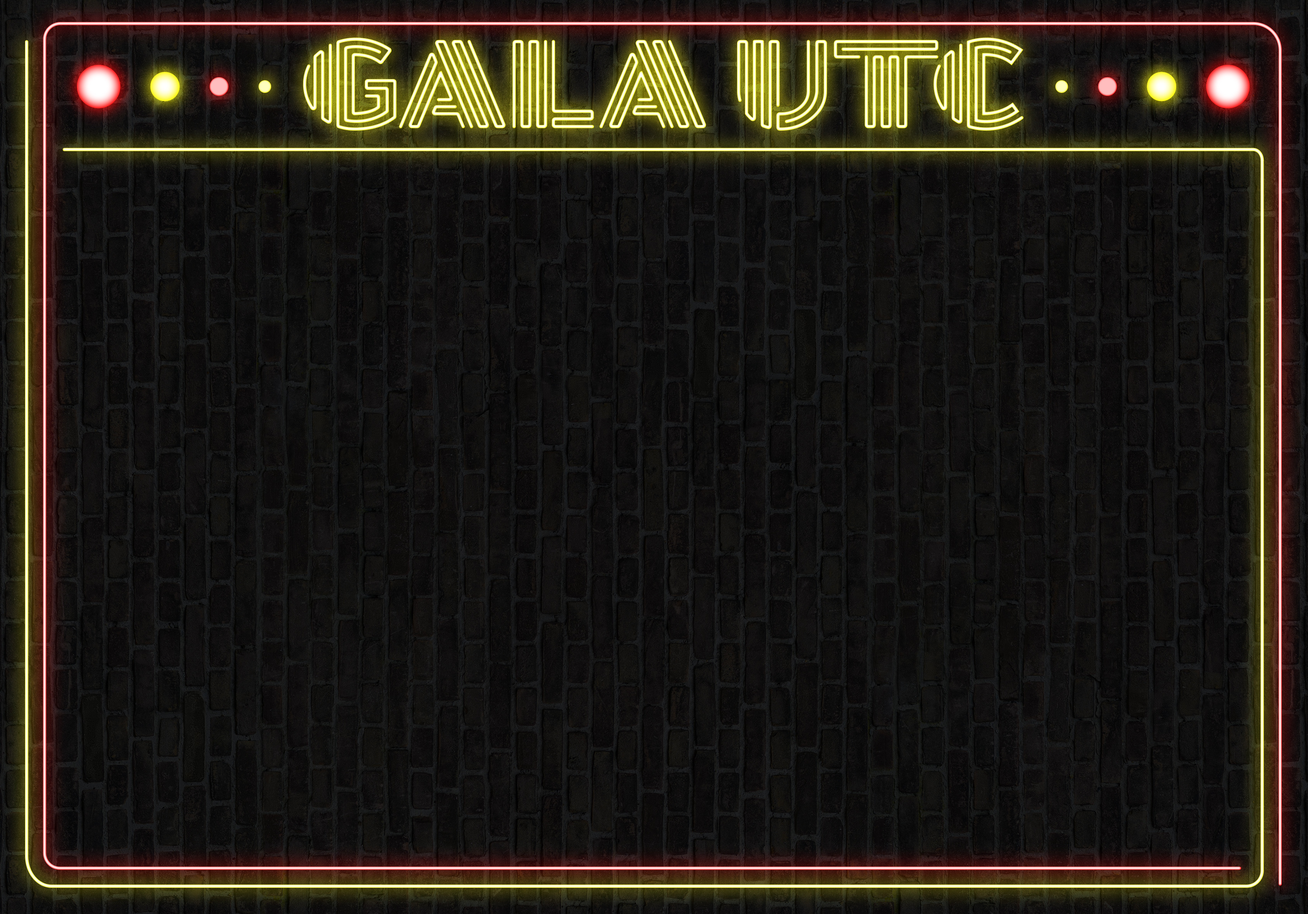
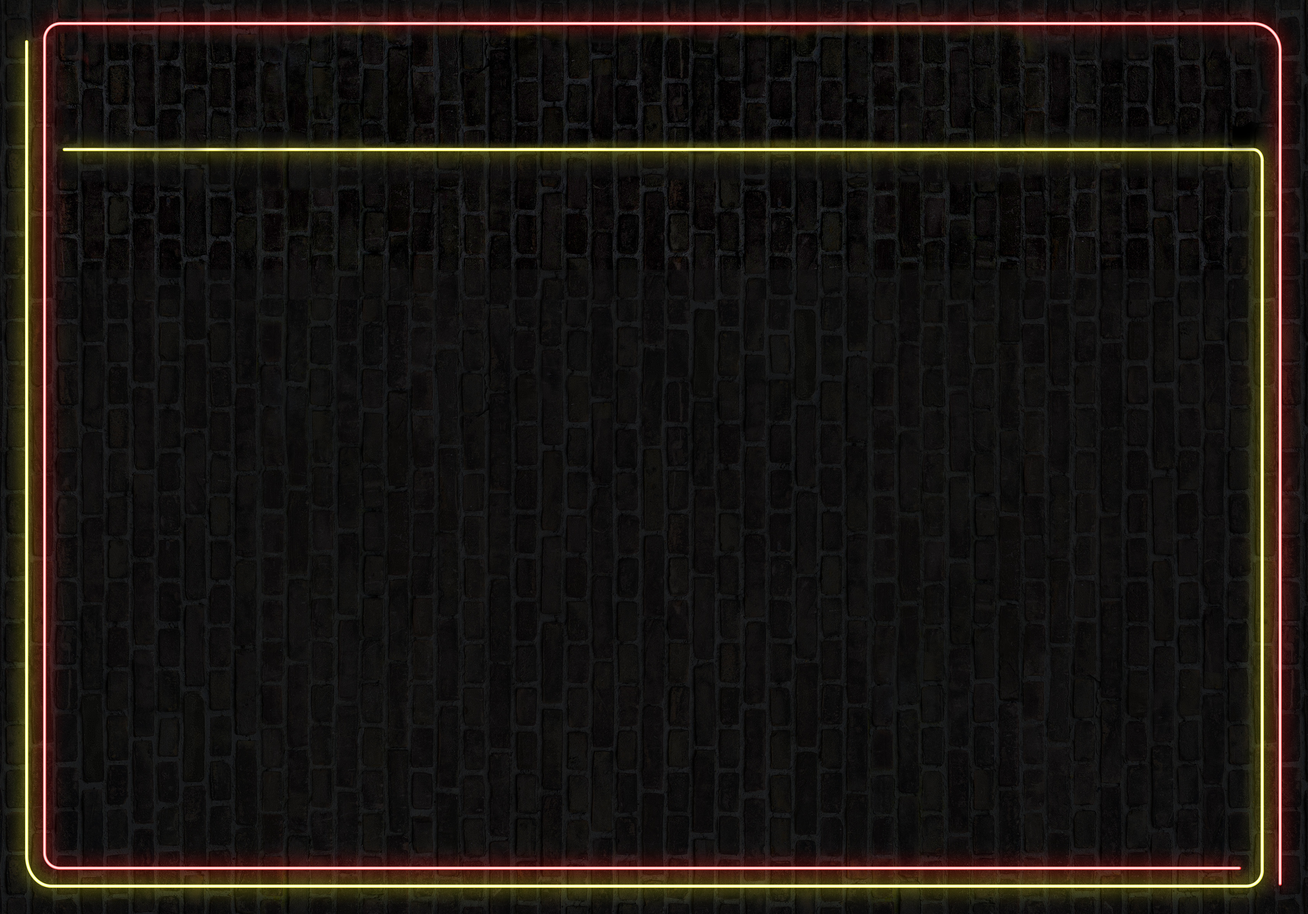
Corrections de bugs, affichage un peu plus responsive

Changed region(s): [[0.031, 0.0312, 0.9599, 0.1873], [0.031, 0.0, 0.0619, 0.0312]]

diff --git a/index.html b/index.html
@@ -9,6 +9,10 @@
 body {
   color:white;
   background-color: black;
+  background-image: url("fondGalaHorizontal.jpeg");
+  background-size: 90vw 100vh;
+  background-position: top;
+  background-repeat: no-repeat;
 }
 
 ul {
@@ -17,37 +21,88 @@ ul {
 }
 
 .content {
-  background-image: url("fondGalaHorizontal.jpeg");
-  background-size: 90vw 100vh;
-  background-position: top;
-  background-repeat: no-repeat;
-  height: 100vh;
-  padding: 10%;
   font-family: Helvetica;
+  font-size: 1em;
+  padding-left: 8%;
+  padding-right: 8%;
+  margin-top: calc(15%);
 }
 
-table {
-  text-align: center;
-  font-size: 1.3em;
+.main_table {
+  width: 100%;
+  border-collapse: collapse;
+  margin-top: 5px
 }
 
-th {
+.sub_table {
+  width: 100%;
+}
+
+.titres_scenes {
   font-weight: bolder;
-  padding: 20px;
+  text-align: center;
+  margin-top: 1em;
+  margin-bottom: 1em;
+  font-size: 1.2em;
 }
 
-.dans_x_minutes, .etat_en_cours {
+td {
+  margin-top: 0;
+  margin-bottom: 0;
+  text-align: left;
+}
+
+#logo{
+  height: 100%;
+  display: block;
+  display: block;
+  margin-left: auto;
+  margin-right: auto;
+}
+
+#logo_container {
+  position: absolute;
+  top: calc(3%);
+  left: 0px;
+  width: 100%;
+  height: 13%;
+}
+
+
+
+.titres_prochainement, .titres_en_cours {
+  text-align: center;
+  font-size: 1.2em;
+    padding-top: 50px;
+}
+
+.titres_prochainement, .titres_en_cours, .temps_restant {
   font-style: italic;
+}
+
+
+.temps_restant {
+  font-size: 0.8em;
+}
+
+.anim_temps_restant {
+  font-size: 0.8em;
 
 }
 
-.ligne_vide_degeulasse {
-  height: 100px;
-}
-
-.nom_evenement_en_cours, .nom_prochain_evenement{
+.nom_evenement_en_cours, .nom_prochain_evenement, .anim_en_cours_nom{
   font-size: 1.5em;
+  text-align: center;
 }
+
+.col_fsc, .col_larsen, .col_pro {
+  border-right: 1px solid white;
+}
+
+.col_fsc, .col_larsen, .col_pro, .col_anim {
+  width: 25%;
+}
+
 </style>
 
 
@@ -57,45 +112,45 @@ th {
 
   <body>
     <div class="content">
-
-<table style="width:100%">
+      <div id="logo_container">
+        <img src="titre_gala_utc.png" id="logo"></img>
+      </div>
+<table class="main_table">
   <tr class="titres_scenes">
-    <th>Scène FSC</th>
-    <th>Scène Larsen</th>
-    <th>Main Stage</th>
-    <th>Animations</th>
+    <th class="col_fsc">Scène FSC</th>
+    <th class="col_larsen">Scène Larsen</th>
+    <th class="col_pro">Main Stage</th>
+    <th class="col_anim">Animations</th>
   </tr>
 
-  <tr class="nom_prochain_evenement">
-    <td id="fsc_ev_prochain_nom">Nom du prochain év sc1</td>
-    <td id="larsen_ev_prochain_nom">Nom du prochain év sc2</td>
-    <td id="pro_ev_prochain_nom">Nom du prochain év sc3</td>
-    <td rowspan="2" id="anim_ev_prochain">Prochaines animations</td>
+  <tr class="ligne_titres_prochainement">
+    <td class="titres_prochainement col_fsc" id="fsc_prochain_etat">Prochainement</td>
+    <td class="titres_prochainement col_larsen" id="larsen_prochain_etat">Prochainement</td>
+    <td class="titres_prochainement col_pro" id="pro_prochain_etat">Prochainement</td>
+    <td class="titres_prochainement col_anim" id="anim_prochain_etat">Prochainement</td>
   </tr>
 
-  <tr class="dans_x_minutes">
-    <td id="fsc_ev_prochain_temps_restant">Dans X minutes</td>
-    <td id="larsen_ev_prochain_temps_restant">Dans X minutes</td>
-    <td id="pro_ev_prochain_temps_restant">Dans X minutes</td>
-    <!-- Cette cellule a été fusionnée avec anim_ev_prochain -->
+  <tr>
+    <td class="col_fsc"><table class="sub_table"><tr><td class="nom_prochain_evenement" id="fsc_ev_prochain_nom">Nom du prochain év sc1</td><td class="temps_restant" id="fsc_ev_prochain_temps_restant">Dans X minutes</td></td></tr></table></td>
+    <td class="col_larsen"><table class="sub_table"><tr><td class="nom_prochain_evenement" id="larsen_ev_prochain_nom">Nom du prochain év sc2</td><td class="temps_restant" id="larsen_ev_prochain_temps_restant">Dans X minutes</td></tr></table></td>
+    <td class="col_pro"><table class="sub_table"><tr><td class="nom_prochain_evenement" id="pro_ev_prochain_nom">Nom du prochain év sc3</td><td class="temps_restant" id="pro_ev_prochain_temps_restant">Dans X minutes</td></tr></table></td>
+    <td class="col_anim"><table class="sub_table"><tr><td rowspan="2" id="anim_ev_prochain">Prochaines animations</td><!-- Cette cellule a été fusionnée avec anim_ev_prochain --></tr></table></td>
   </tr>
 
-  <tr class="ligne_vide_degeulasse">
 
+
+  <tr>
+    <td class="titres_en_cours col_fsc" id="fsc_ev_en_cours_etat">En cours</td>
+    <td class="titres_en_cours col_larsen" id="larsen_ev_en_cours_etat">En cours</td>
+    <td class="titres_en_cours col_pro" id="pro_ev_en_cours_etat">En cours</td>
+    <td class="titres_en_cours col_anim" id="anim_ev_en_cours_etat">En cours</td>
   </tr>
 
-  <tr class="etat_en_cours">
-    <td id="fsc_ev_en_cours_etat">En cours</td>
-    <td id="larsen_ev_en_cours_etat">En cours</td>
-    <td id="pro_ev_en_cours_etat">En cours</td>
-    <td id="anim_ev_en_cours_etat">En cours</td>
-  </tr>
-
-  <tr class="nom_evenement_en_cours">
-    <td id="fsc_ev_en_cours_nom">Nom év en cours sc1</td>
-    <td id="larsen_ev_en_cours_nom">Nom év en cours sc2</td>
-    <td id="pro_ev_en_cours_nom">Nom év en cours sc3</td>
-    <td id="anim_ev_en_cours_nom">Nom év en cours anim</td>
+  <tr>
+    <td class="nom_evenement_en_cours col_fsc" id="fsc_ev_en_cours_nom">Nom év en cours sc1</td>
+    <td class="nom_evenement_en_cours col_larsen" id="larsen_ev_en_cours_nom">Nom év en cours sc2</td>
+    <td class="nom_evenement_en_cours col_pro" id="pro_ev_en_cours_nom">Nom év en cours sc3</td>
+    <td id="anim_ev_en_cours_nom" class="col_anim">Noms év en cours anim</td>
   </tr>
 
 </table>
@@ -107,15 +162,15 @@ th {
 
 var fsc = [
 { nom: "Zen'Hit",
-  debut: new Date(2018, 11, 15, 22, 45),
-  fin: new Date(2018, 11, 15, 23, 35),
+  debut: new Date(2018, 11, 14, 10, 0),
+  fin: new Date(2018, 11, 14, 10, 10),
 },
 { nom: "TED",
-  debut: new Date(2018, 11, 15, 23, 35),
-  fin: new Date(2018, 11, 16, 0, 25),
+  debut: new Date(2018, 11, 14, 10, 10),
+  fin: new Date(2018, 11, 14, 10, 15),
 },
 { nom: "Touzö",
-  debut: new Date(2018, 11, 16, 0, 25),
+  debut: new Date(2018, 11, 16, 0, 20),
   fin: new Date(2018, 11, 16, 1, 15),
 },
 { nom: "Madjer",
@@ -134,12 +189,12 @@ var fsc = [
 
 var larsen = [
 { nom: "R404",
-  debut: new Date(2018, 11, 15, 22, 45),
-  fin: new Date(2018, 11, 15, 23, 15),
+  debut: new Date(2018, 11, 14, 10, 0),
+  fin: new Date(2018, 11, 14, 10, 10),
 },
 { nom: "Originals",
-  debut: new Date(2018, 11, 16, 0, 0),
-  fin: new Date(2018, 11, 16, 1, 0),
+  debut: new Date(2018, 11, 14, 10, 10),
+  fin: new Date(2018, 11, 14, 10, 20),
 },
 { nom: "Chicken Swing",
   debut: new Date(2018, 11, 16, 1, 0),
@@ -153,12 +208,12 @@ var larsen = [
 
 var pro = [
 { nom: "Nawui",
-  debut: new Date(2018, 11, 15, 22, 30),
-  fin: new Date(2018, 11, 15, 23, 20),
+  debut: new Date(2018, 11, 14, 10, 0),
+  fin: new Date(2018, 11, 14, 10, 10),
 },
 { nom: "Blow",
-  debut: new Date(2018, 11, 16, 0, 0),
-  fin: new Date(2018, 11, 16, 1, 30),
+  debut: new Date(2018, 11, 14, 10, 10),
+  fin: new Date(2018, 11, 14, 10, 20),
 },
 { nom: "Faul&Wad",
   debut: new Date(2018, 11, 16, 1, 45),
@@ -176,20 +231,20 @@ var pro = [
 
 var anim = [
 { nom: "Concert Stravaganza BROADWAY",
-  debut: new Date(2018, 11, 15, 21, 0),
-  fin: new Date(2018, 11, 12, 22, 0),
+  debut: new Date(2018, 11, 14, 10, 0),
+  fin: new Date(2018, 11, 14, 10, 10),
 },
 { nom: "Défilé de mode",
-  debut: new Date(2018, 11, 15, 22, 0),
-  fin: new Date(2018, 11, 12, 22, 15),
+  debut: new Date(2018, 11, 14, 10, 0),
+  fin: new Date(2018, 11, 14, 10, 10),
 },
 { nom: "Acrockeur",
-  debut: new Date(2018, 11, 15, 22, 30),
-  fin: new Date(2018, 11, 15, 22, 45),
+  debut: new Date(2018, 11, 14, 10, 10),
+  fin: new Date(2018, 11, 14, 10, 20),
 },
 { nom: "PIC'N'Rock",
-  debut: new Date(2018, 11, 15, 22, 45),
-  fin: new Date(2018, 11, 15, 23, 0),
+  debut: new Date(2018, 11, 14, 10, 10),
+  fin: new Date(2018, 11, 14, 10, 20),
 },
 { nom: "Salsa",
   debut: new Date(2018, 11, 15, 23, 0),
@@ -236,8 +291,7 @@ var proEnCours, proProchain;
 var animsEnCours = [];
 var animsProchaines = [];
 
-console.log(fsc[0].debut);
-console.log(d);
+
 
 //parsage FSC
 fsc.forEach( (ev) => {
@@ -262,10 +316,10 @@ anim.forEach( (ev) => {
 })
 
 //Affichage FSC
-affichageScene(fscEnCours,fscProchain,document.getElementById("fsc_ev_en_cours_nom"),document.getElementById("fsc_ev_en_cours_etat"),document.getElementById("fsc_ev_prochain_nom"),document.getElementById("fsc_ev_prochain_temps_restant"))
-affichageScene(larsenEnCours,larsenProchain,document.getElementById("larsen_ev_en_cours_nom"),document.getElementById("larsen_ev_en_cours_etat"),document.getElementById("larsen_ev_prochain_nom"),document.getElementById("larsen_ev_prochain_temps_restant"))
-affichageScene(proEnCours,proProchain,document.getElementById("pro_ev_en_cours_nom"),document.getElementById("pro_ev_en_cours_etat"),document.getElementById("pro_ev_prochain_nom"),document.getElementById("pro_ev_prochain_temps_restant"))
-affichageAnimation(animsEnCours, animsProchaines, document.getElementById("anim_ev_en_cours_nom"),document.getElementById("anim_ev_en_cours_etat"),document.getElementById("anim_ev_prochain"))
+affichageScene(fscEnCours,fscProchain,document.getElementById("fsc_ev_en_cours_nom"),document.getElementById("fsc_ev_en_cours_etat"),document.getElementById("fsc_ev_prochain_nom"),document.getElementById("fsc_ev_prochain_temps_restant"), document.getElementById("fsc_prochain_etat"))
+affichageScene(larsenEnCours,larsenProchain,document.getElementById("larsen_ev_en_cours_nom"),document.getElementById("larsen_ev_en_cours_etat"),document.getElementById("larsen_ev_prochain_nom"),document.getElementById("larsen_ev_prochain_temps_restant"), document.getElementById("larsen_prochain_etat"))
+affichageScene(proEnCours,proProchain,document.getElementById("pro_ev_en_cours_nom"),document.getElementById("pro_ev_en_cours_etat"),document.getElementById("pro_ev_prochain_nom"),document.getElementById("pro_ev_prochain_temps_restant"), document.getElementById("pro_prochain_etat"))
+affichageAnimation(animsEnCours, animsProchaines, document.getElementById("anim_ev_en_cours_nom"),document.getElementById("anim_ev_en_cours_etat"),document.getElementById("anim_ev_prochain"), document.getElementById("anim_prochain_etat"))
 
   setTimeout(alerte, 1000);
 }
@@ -273,46 +327,52 @@ affichageAnimation(animsEnCours, animsProchaines, document.getElementById("anim_
 
 
 //prend en argument les deux objets d'événement, et les tags HTML dans lesquels il faut output le texte
-function affichageScene(encours, prochain, encours_nom, encours_etat, prochain_nom, prochain_etat) {
+function affichageScene(encours, prochain, encours_nom, encours_etat, prochain_nom, prochain_temps, prochain_etat) {
 var d = new Date();
   //TODO: remplacer le 'rien' par rien, c'est pas très classe pour le gala
   encours_nom.innerHTML = encours ? encours.nom : "";
+  encours_etat.innerHTML = encours ? "En cours" : "";
   prochain_nom.innerHTML = prochain ? prochain.nom : "";
   let delaySeconds = prochain ? Math.floor((prochain.debut.getTime() - d.getTime())/1000) : 0;
   let minutes = Math.floor(delaySeconds / 60);
   let secondes = Math.floor(delaySeconds % 60);
-  prochain_etat.innerHTML = prochain ? "Dans " + deuxChiffres.format(minutes) + " : " + deuxChiffres.format(secondes) + " " : "";
+  prochain_temps.innerHTML = prochain ? deuxChiffres.format(minutes) + " : " + deuxChiffres.format(secondes) : "";
+  prochain_etat.innerHTML = prochain ? "Prochainement" : "";
 }
 
 //prend en argument deux array contenant des objets d'événement, et les tags HTML dans lesquels il faut output le texte
-function affichageAnimation(encours, prochain, encours_nom, encours_etat, prochain_cellule) {
+function affichageAnimation(encours, prochain, encours_nom, encours_etat, prochain_cellule, prochain_etat) {
 var d = new Date();
   //TODO: remplacer le 'rien' par rien, c'est pas très classe pour le gala
   if(encours.length == 0) {
   encours_nom.innerHTML = "";
+  encours_etat.innerHTML = "";
 }
 else {
-  let output = "<ul>";
+  let output = "<table class='sub_table'>";
   encours.forEach( (ev) => {
-    output += '<li>' + ev.nom +'</li>';
+    output += '<tr><td class="nom_evenement_en_cours" >' + ev.nom +'</td></tr>';
   });
-  output += "</ul>";
+  output += "</table>";
   encours_nom.innerHTML = output;
+  encours_etat.innerHTML = "En cours";
 }
 
 if(prochain.length == 0) {
   prochain_cellule.innerHTML = "";
+  prochain_etat.innerHTML = "";
 }
 else {
-  let output = "<ul>";
+  let output = "<table class='sub_table'>";
  prochain.forEach( (ev) => {
    let delaySeconds = Math.floor((ev.debut.getTime() - d.getTime())/1000);
    let minutes = Math.floor(delaySeconds / 60);
    let secondes = Math.floor(delaySeconds % 60);
-   output += "<li>" + ev.nom + "<br/><span class='temps_restant'>dans " + deuxChiffres.format(minutes) + " : " + deuxChiffres.format(secondes) + "</span></li>"
+   output += "<tr><td class='nom_prochain_evenement'>"+ev.nom +"</td><td class='anim_temps_restant temps_restant'>" + deuxChiffres.format(minutes) + " : " + deuxChiffres.format(secondes) + "</td></tr>"
  });
- output += "</ul>";
+ output += "</table>";
 prochain_cellule.innerHTML = output;
+prochain_etat.innerHTML = "Prochainement"
 }
 
 }
